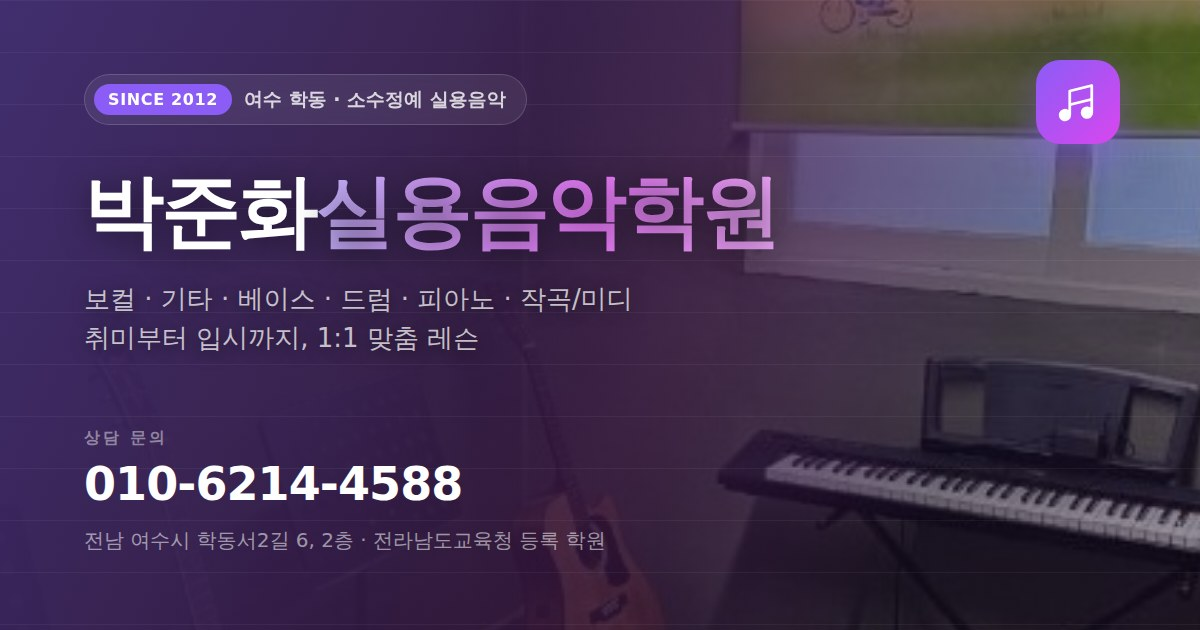
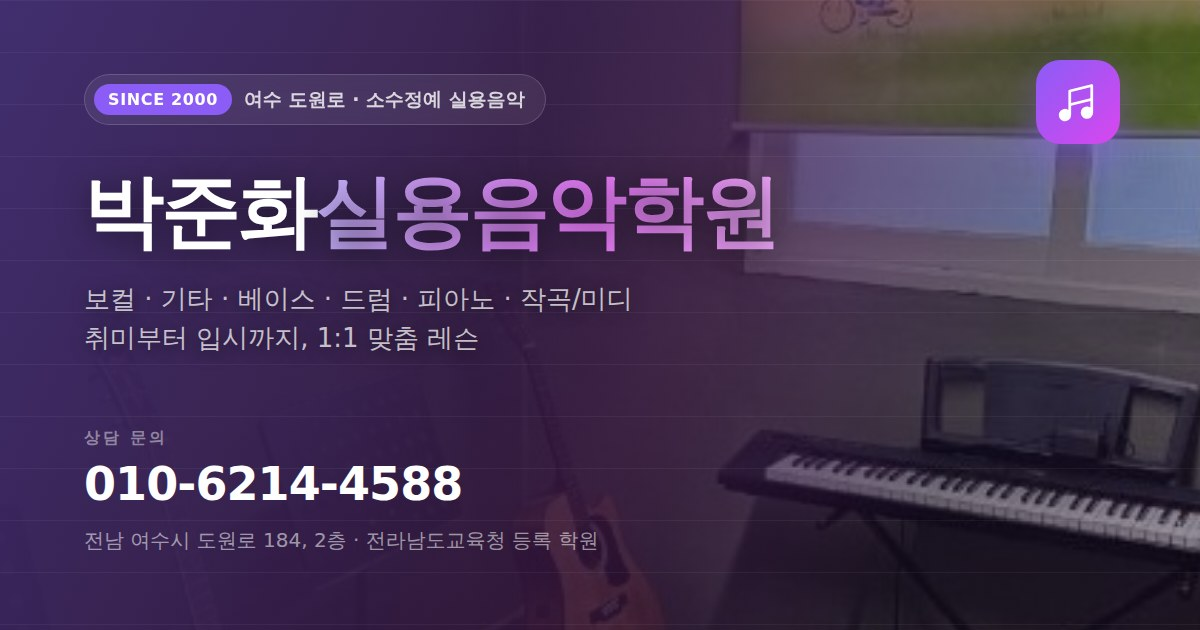
Correct academy address and founding year
원장님 확인에 따라 사실 정정.

- 주소: 학동서2길 6 → 도원로 184, 2층 (4곳)
- 설립: 2012년 2월 → 2000년 5월, 업력 14년 → 26년 (8곳)
- 지역 표기: '여수 학동' → '여수 도원로' (동 이름은 추측하지 않음)
- JSON-LD에 foundingDate 2000-05 추가
- 공유 썸네일 재생성 (SINCE 2000, 새 주소)

기존 값은 공개 학원 등록 기록에서 가져온 것으로 실제와 달랐음.
같은 출처의 정원 45명 / 동시 수업 정원 8명은 정확한 것으로 확인되어 유지.

Claude-Session: https://claude.ai/code/session_01AWWdjzSrpLfvZxtuxcmQ1x

Changed region(s): [[0.1542, 0.8444, 0.5242, 0.8746], [0.2467, 0.1206, 0.4625, 0.181], [0.1542, 0.1508, 0.185, 0.181]]

diff --git a/index.html b/index.html
@@ -3,8 +3,8 @@
 <head>
   <meta charset="UTF-8">
   <meta name="viewport" content="width=device-width, initial-scale=1.0">
-  <title>박준화실용음악학원 — 여수 학동 실용음악 · 보컬 · 악기 레슨</title>
-  <meta name="description" content="2012년부터 여수 학동에서 함께해온 박준화실용음악학원. 보컬, 기타, 베이스, 드럼, 피아노, 작곡·미디까지 1:1 맞춤 소수정예 레슨으로 취미부터 입시까지 책임집니다.">
+  <title>박준화실용음악학원 — 여수 도원로 실용음악 · 보컬 · 악기 레슨</title>
+  <meta name="description" content="2000년부터 여수 도원로에서 함께해온 박준화실용음악학원. 보컬, 기타, 베이스, 드럼, 피아노, 작곡·미디까지 1:1 맞춤 소수정예 레슨으로 취미부터 입시까지 책임집니다.">
   <meta name="theme-color" content="#0a0a0f">
   <link rel="canonical" href="https://brizymedia.github.io/parkjunhwa-music/">
   <link rel="icon" href="favicon.svg" type="image/svg+xml">
@@ -12,14 +12,14 @@
 
   <meta property="og:type" content="website">
   <meta property="og:site_name" content="박준화실용음악학원">
-  <meta property="og:title" content="박준화실용음악학원 — 여수 학동 실용음악학원">
+  <meta property="og:title" content="박준화실용음악학원 — 여수 도원로 실용음악학원">
   <meta property="og:description" content="보컬 · 기타 · 베이스 · 드럼 · 피아노 · 작곡/미디. 취미반부터 입시반까지, 1:1 맞춤 소수정예 레슨.">
   <meta property="og:url" content="https://brizymedia.github.io/parkjunhwa-music/">
   <meta property="og:image" content="https://brizymedia.github.io/parkjunhwa-music/og-image.jpg">
   <meta property="og:image:type" content="image/jpeg">
   <meta property="og:image:width" content="1200">
   <meta property="og:image:height" content="630">
-  <meta property="og:image:alt" content="박준화실용음악학원 — 여수 학동 실용음악학원">
+  <meta property="og:image:alt" content="박준화실용음악학원 — 여수 도원로 실용음악학원">
   <meta property="og:locale" content="ko_KR">
   <meta name="twitter:card" content="summary_large_image">
 
@@ -145,13 +145,14 @@
     "@context": "https://schema.org",
     "@type": "MusicSchool",
     "name": "박준화실용음악학원",
-    "description": "여수 학동의 실용음악학원. 보컬, 기타, 베이스, 드럼, 피아노, 작곡·미디를 1:1 맞춤 소수정예로 지도합니다.",
+    "description": "여수 도원로의 실용음악학원. 보컬, 기타, 베이스, 드럼, 피아노, 작곡·미디를 1:1 맞춤 소수정예로 지도합니다.",
+    "foundingDate": "2000-05",
     "telephone": "+82-10-6214-4588",
     "url": "https://brizymedia.github.io/parkjunhwa-music/",
     "sameAs": ["https://naver.me/FSvD89ZY"],
     "address": {
       "@type": "PostalAddress",
-      "streetAddress": "학동서2길 6, 2층",
+      "streetAddress": "도원로 184, 2층",
       "addressLocality": "여수시",
       "addressRegion": "전라남도",
       "addressCountry": "KR"
@@ -205,8 +206,8 @@
   <div class="relative max-w-6xl mx-auto px-5 sm:px-8 w-full">
     <div class="reveal">
       <div class="inline-flex items-center gap-2.5 glass rounded-full pl-2 pr-4 py-1.5 mb-8">
-        <span class="px-2.5 py-1 rounded-full text-[.7rem] font-extrabold bg-violet-500/90 text-white tracking-wide">SINCE 2012</span>
-        <span class="text-[.82rem] text-white/70 font-medium">여수 학동 · 소수정예 실용음악</span>
+        <span class="px-2.5 py-1 rounded-full text-[.7rem] font-extrabold bg-violet-500/90 text-white tracking-wide">SINCE 2000</span>
+        <span class="text-[.82rem] text-white/70 font-medium">여수 도원로 · 소수정예 실용음악</span>
       </div>
     </div>
 
@@ -217,7 +218,7 @@
     </h1>
 
     <p class="reveal max-w-xl text-[1.02rem] sm:text-lg text-white/60 leading-relaxed mb-10" style="transition-delay:.16s">
-      악보를 못 봐도 괜찮습니다. 2012년부터 여수 학동에서 이어온 박준화실용음악학원은
+      악보를 못 봐도 괜찮습니다. 2000년부터 여수 도원로에서 이어온 박준화실용음악학원은
       한 사람의 목표와 속도에 맞춘 <strong class="text-white/85 font-semibold">1:1 맞춤 커리큘럼</strong>으로
       첫 곡부터 무대까지 함께합니다.
     </p>
@@ -239,7 +240,7 @@
         전라남도교육청 등록 학원
       </span>
       <span class="text-white/15">·</span>
-      <span>2012년 개원</span>
+      <span>2000년 개원</span>
       <span class="text-white/15">·</span>
       <span>동시 수업 정원 8명</span>
     </p>
@@ -247,7 +248,7 @@
     <div class="reveal grid grid-cols-2 sm:grid-cols-4 gap-x-4 gap-y-6 max-w-3xl" style="transition-delay:.32s">
       <div>
         <div class="flex items-baseline gap-1">
-          <span class="text-3xl sm:text-4xl font-black grad" data-count="14">0</span>
+          <span class="text-3xl sm:text-4xl font-black grad" data-count="26">0</span>
           <span class="text-lg font-bold text-white/45">년</span>
         </div>
         <p class="text-[.83rem] text-white/45 mt-1.5">여수에서 쌓아온 시간</p>
@@ -342,7 +343,7 @@
               </span>
               <div>
                 <p class="font-bold text-[.93rem]">박준화실용음악학원</p>
-                <p class="text-[.8rem] text-white/45">여수 학동 · 2012년 개원</p>
+                <p class="text-[.8rem] text-white/45">여수 도원로 · 2000년 개원</p>
               </div>
             </div>
           </div>
@@ -352,7 +353,7 @@
       <div>
         <p class="eyebrow reveal mb-5">About</p>
         <h2 class="reveal text-3xl sm:text-[2.7rem] font-black leading-[1.18] tracking-[-.025em] mb-6" style="transition-delay:.06s">
-          14년 동안 여수에서,<br>한 사람씩 <span class="grad">끝까지</span> 봐 왔습니다.
+          26년 동안 여수에서,<br>한 사람씩 <span class="grad">끝까지</span> 봐 왔습니다.
         </h2>
         <p class="reveal text-white/60 leading-relaxed mb-10 text-[1.01rem]" style="transition-delay:.12s">
           큰 규모로 많은 인원을 받는 대신, 동시에 수업하는 인원을 적게 유지합니다.
@@ -1105,8 +1106,8 @@
             </span>
             <div>
               <p class="text-[.75rem] font-bold tracking-[.12em] text-white/35 mb-1.5">ADDRESS</p>
-              <p class="font-semibold text-[.97rem] leading-snug">전라남도 여수시 학동서2길 6, 2층</p>
-              <p class="text-[.84rem] text-white/45 mt-1">여수시 학동</p>
+              <p class="font-semibold text-[.97rem] leading-snug">전라남도 여수시 도원로 184, 2층</p>
+              <p class="text-[.84rem] text-white/45 mt-1">여수시 도원로</p>
             </div>
           </div>
 
@@ -1139,7 +1140,7 @@
             <div>
               <p class="text-[.75rem] font-bold tracking-[.12em] text-white/35 mb-1.5">LICENSE</p>
               <p class="font-semibold text-[.97rem] leading-snug">전라남도교육청 등록 학원</p>
-              <p class="text-[.84rem] text-white/45 mt-1">2012년 2월 개원 · 정원 45명</p>
+              <p class="text-[.84rem] text-white/45 mt-1">2000년 5월 개원 · 정원 45명</p>
             </div>
           </div>
         </div>
@@ -1171,7 +1172,7 @@
     <div class="rule my-8"></div>
 
     <p class="text-center text-[.79rem] text-white/25 leading-relaxed">
-      전라남도 여수시 학동서2길 6, 2층 · 전라남도교육청 등록 학원<br class="sm:hidden">
+      전라남도 여수시 도원로 184, 2층 · 전라남도교육청 등록 학원<br class="sm:hidden">
       <span class="hidden sm:inline"> · </span>© 2026 박준화실용음악학원
     </p>
   </div>
